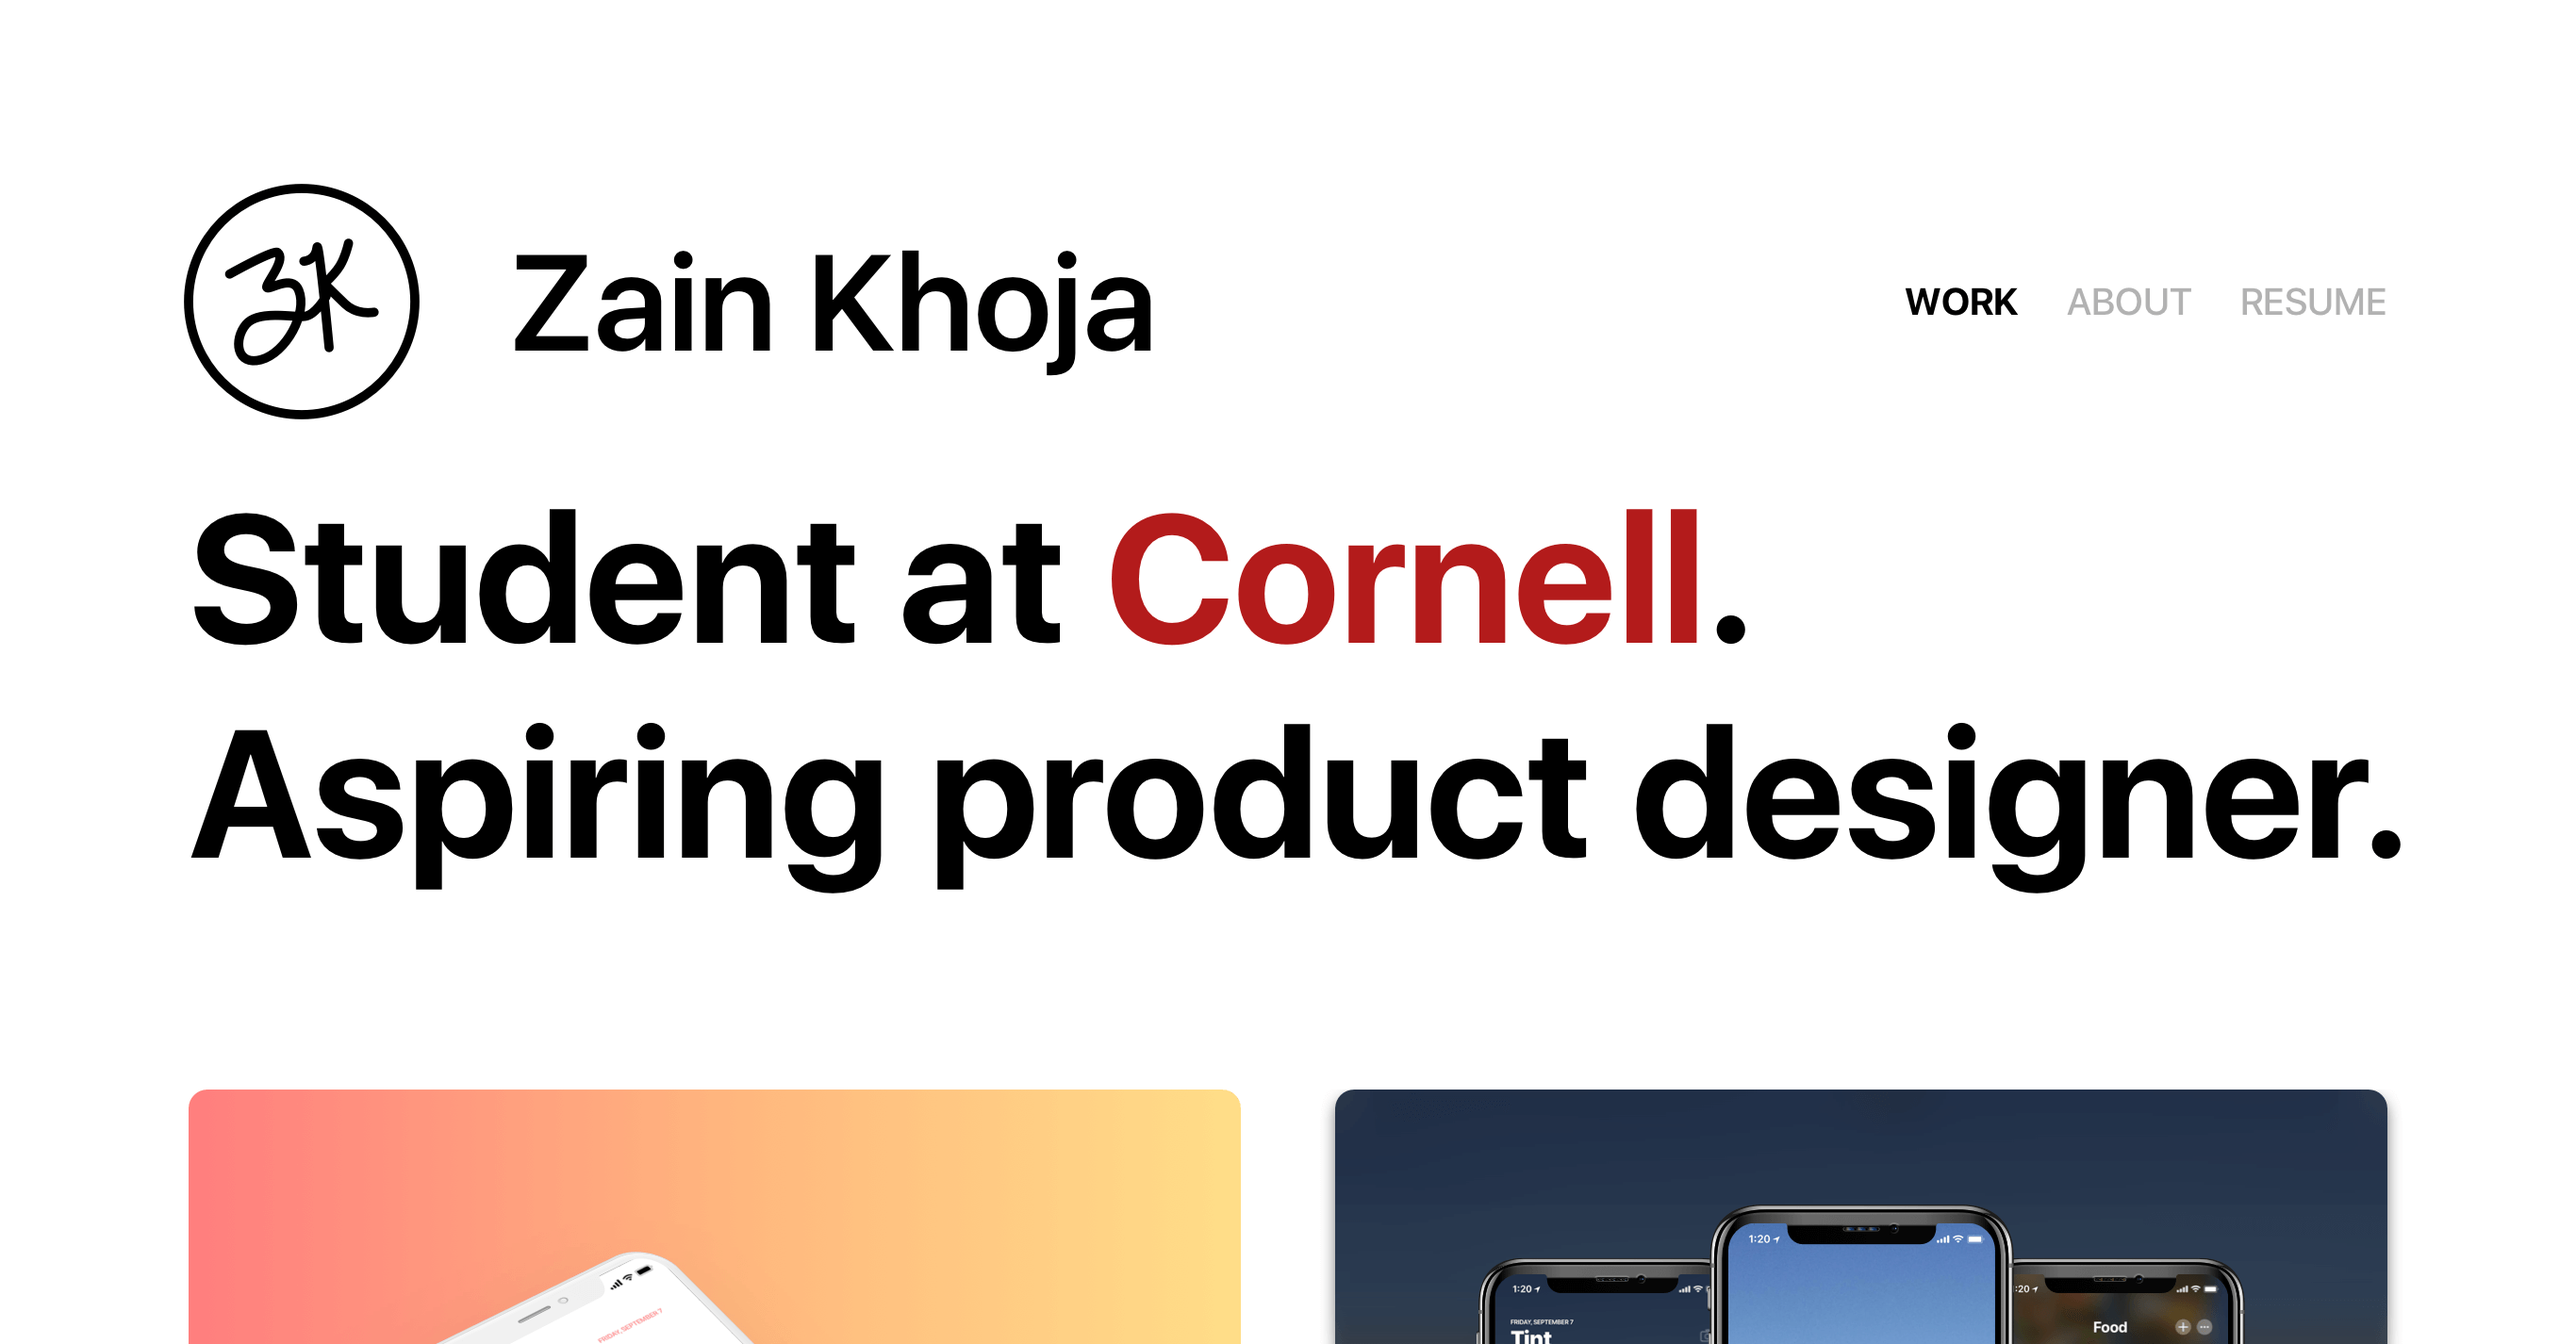
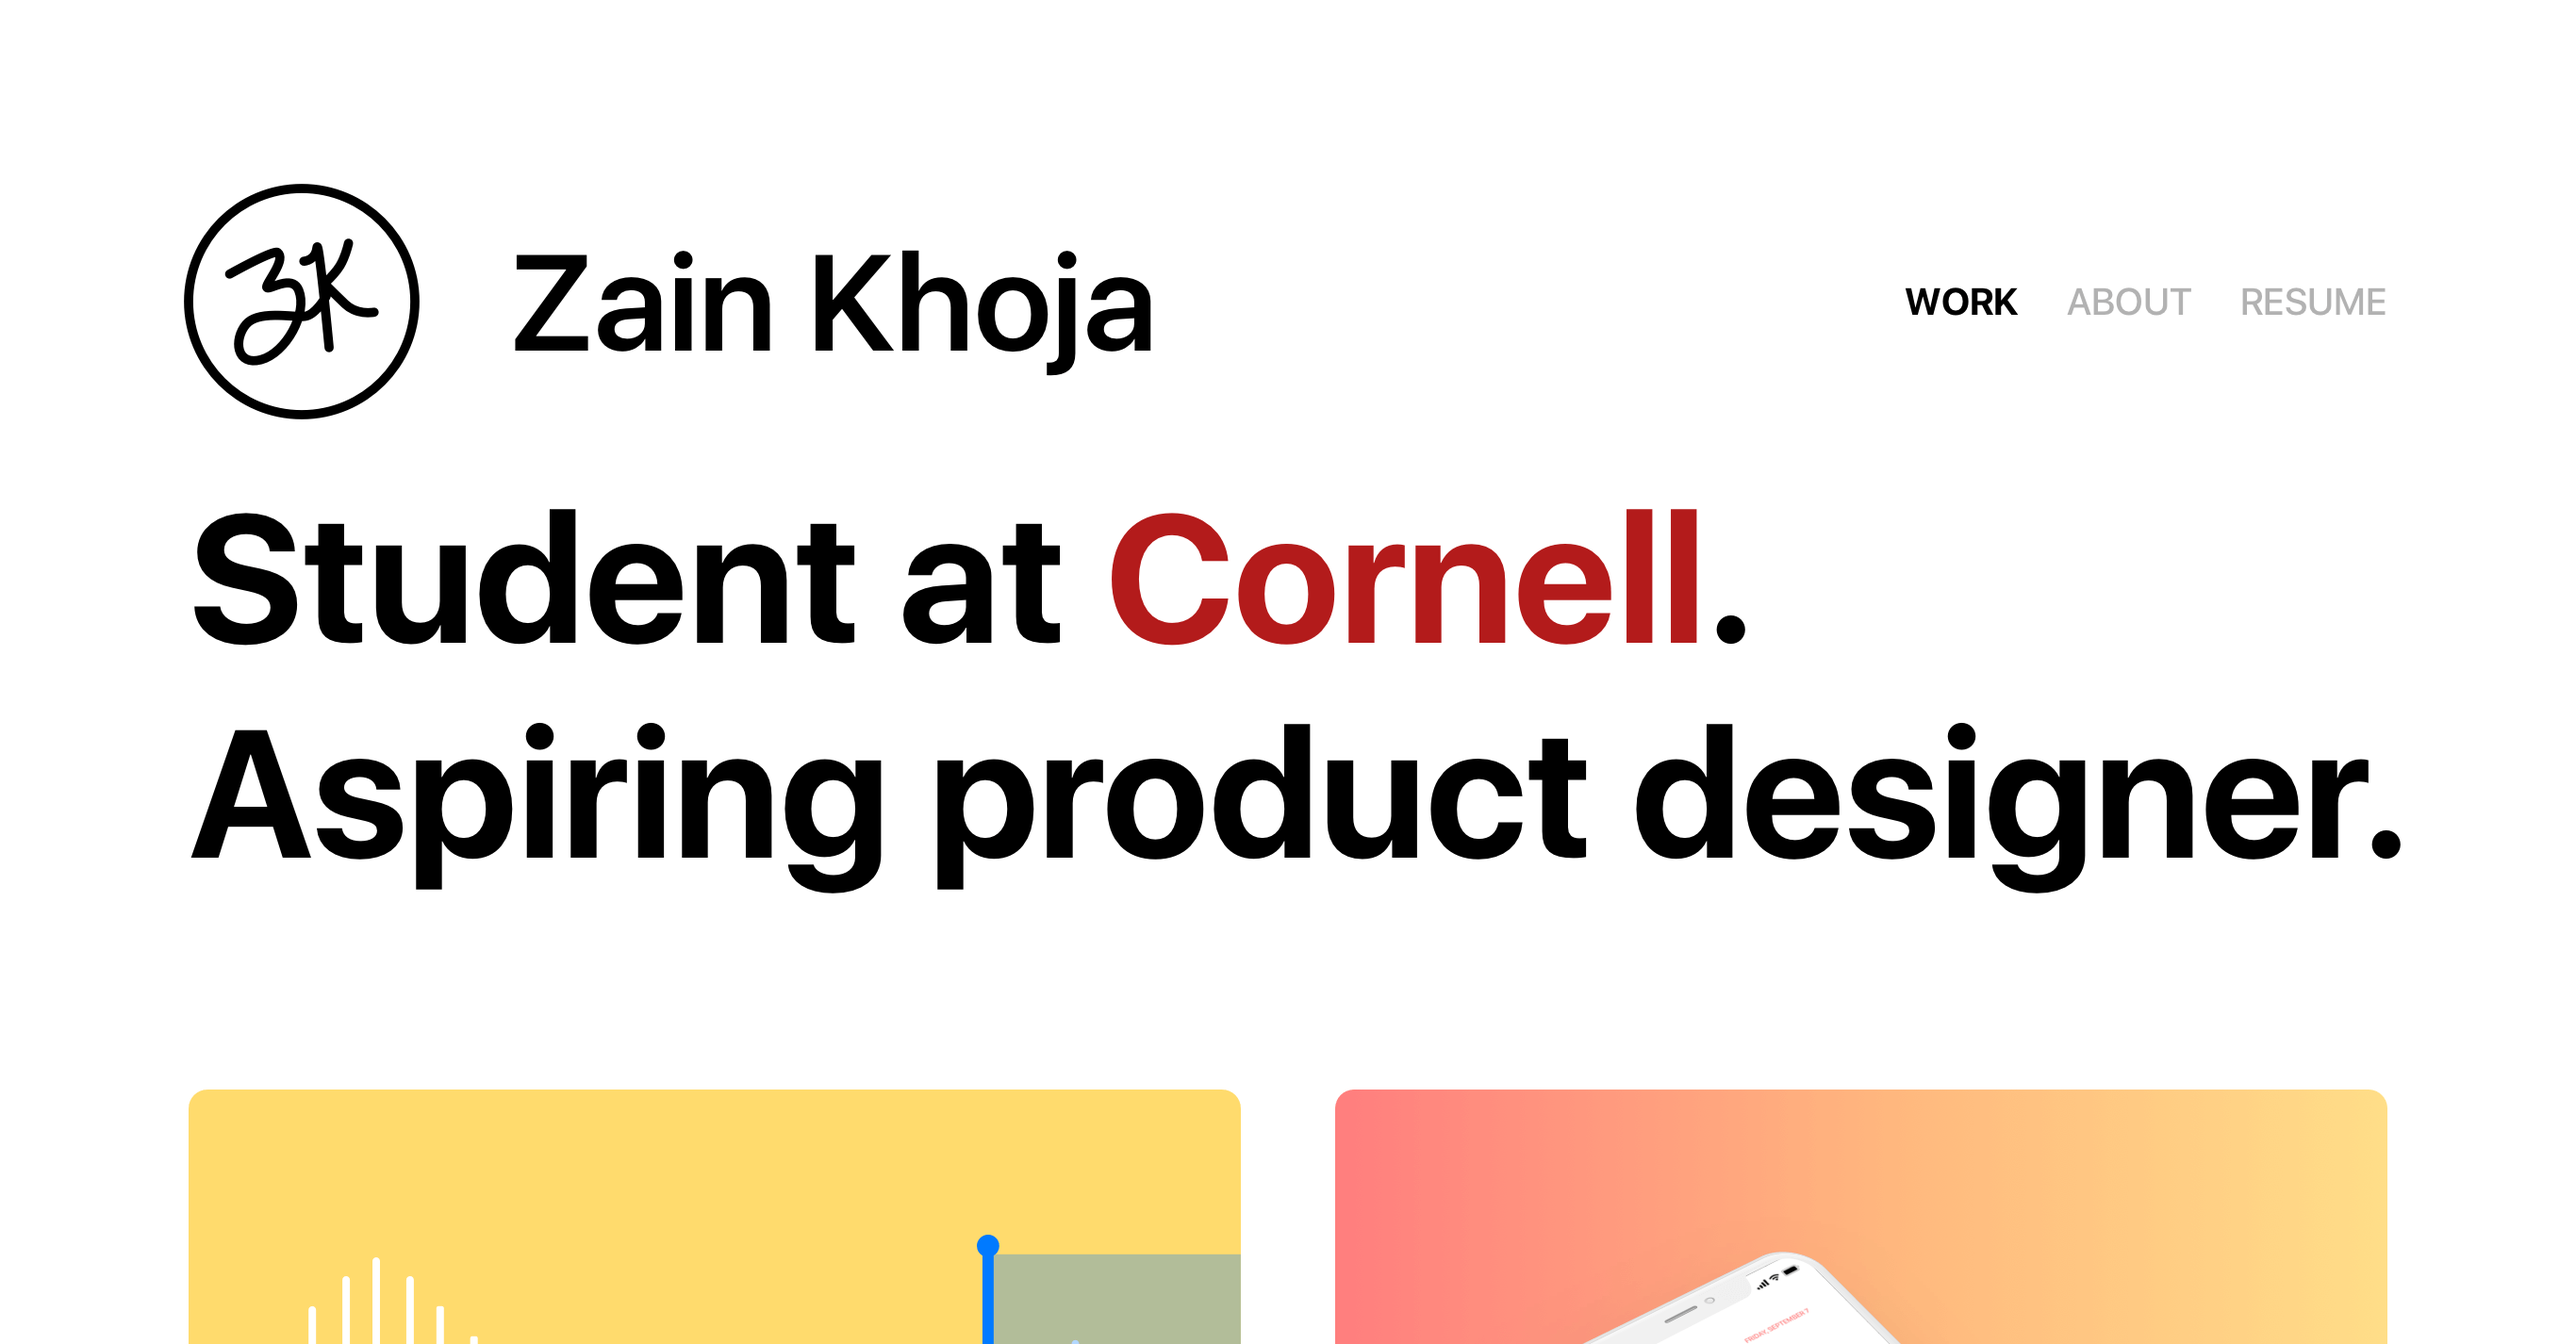
*NEW PROJECT* IDEO CoLab!
Updated website with my experience from the IDEO CoLab Makeathon Winter
2018

Changed region(s): [[0.3734, 0.8022, 0.9334, 1.0], [0.0622, 0.8022, 0.3422, 1.0]]

diff --git a/ideocolab.html b/ideocolab.html
@@ -1,4 +1,4 @@
-<!-- tint.html -->
+<!-- ideocolab.html -->
 
 <!DOCTYPE html>
 <html lang="en">
@@ -6,7 +6,7 @@
 <!-- HEAD -->
 <head id="top">
     <meta charset="UTF-8">
-    <title>Tint · Zain Khoja</title>
+    <title>IDEO CoLab · Zain Khoja</title>
 
     <!-- Responsive Web Design -->
     <meta name="viewport" content="width=device-width, initial-scale=1.0, maximum-scale=1, user-scalable=0">
@@ -91,9 +91,9 @@
     <div class="row">
         <div class="c1"></div>
         <div class="c10">
-            <h1 class="tinttitle title">
-                Tint.<br>
-                Photo app concept.
+            <h1 class="ideocolabtitle title">
+                IDEO CoLab.<br>
+                Makeathon Winter 2018.
             </h1>
         </div>
         <div class="c1"></div>
@@ -107,7 +107,7 @@
         <div class="c5">
             <p>
             <span style="font-family: SFUI Bold">Overview</span><br>
-            An application that automatically detects and classifies images on the go.
+            Ideating a way to create meaningful hospital visits through cohesive digital experiences over large distances.
             </p>
             
             <p>
@@ -118,11 +118,11 @@
             
             <p>
             <span style="font-family: SFUI Bold">Timeline</span><br>
-            September 2018
+            October 2018
             </p> 
         </div>
         <div class="c5">
-            <img src="work/tint/tintmockup.png">
+            <img src="work/ideocolab/ideocolabmockup2.png">
         </div>
         <div class="c1"></div>
     </div>
@@ -131,40 +131,58 @@
     <div class="row content">
         <div class="c1"></div>
         <div class="c10 divider">
-            <h1 class="tinttitle">Problem</h1>
+            <h1 class="ideocolabtitle">Background</h1>
             <p>
-                We see a lot of cool things everyday, but we don’t have the time to make a note to search or learn more about these things. What if an application could automatically organize and compile knowledge about these objects while we’re out and remind us when we get home?
-            </p><br>
-
-            <h1 class="tinttitle">User Flow</h1>
-            <p class="c4">
-                <span style="font-family: SFUI Bold">Camera</span><br>
-                Playing around with the concept of a general camera app, I recognized the strong familiarity that users had with current applications. In order to retain user behaviors, I created a simple camera view. When you’re on the go, you just want to take the picture and move on with your day. The view simply contains a single button for taking pictures and accessing a library of previously taken photos.
-            </p><br>
-            
-            <img src="work/tint/cameramockup.png" class="projectimg" style="padding-top: 1.5em">
-            
-            <p>
-                <span style="font-family: SFUI Bold">Edit</span><br>
-                The ability to modify images in this application is just a mode of entertainment. As apps like Snapchat and the "Story" concept grow, it’s important to recognize the intended audience of a younger user base. Users are used to being able to play with photos, so this aspect is vital for familiarity.
-                
-                <img src="work/tint/editmockup.png" class="projectimg">
-            </p><br>
-            
-            <p>
-                <span style="font-family: SFUI Bold">Catching Up</span><br>
-                The idea is for a user to be able to "catch up" on their day, so the photo library is focused on memory and reflects on the last photo taken by the user. Users can look at their photos chronologically by default, by category (which is suggestable in the Edit screen above or done automatically by machine learning APIs), and by keyword. 
-                
-                <img src="work/tint/librarymockup.png" class="projectimg">
-                
-                The background of the application will always be a blurred, tinted version of the last photo taken, providing the subtle "reflection" aspect mentioned earlier. The user can also return to the camera via the button in the top right.
-            </p><br>
-            
-            <h1 class="tinttitle">Further Exploration</h1>
-            <p class="c5">
-                I produced a handful of more high-fidelity mockups to showcase scrolling behavior and search results.
+                The IDEO CoLab is the company’s R&D branch, focusing on creating products and ideas that synthesize the world’s emerging technologies. In winter of 2018, this meant taking a closer look at the applications of circular economies, collaborative cities, dynamic workforces, and open financial systems. 
             </p>
-            <img src="work/tint/explorationmockup.png" class="c12" id="exploration">
+            
+            <p>
+               For the makeathon, us participants were split into groups of 4 to 5 to collaborate on a specific application of these technologies. My group consisted of an occupational therapist from Chicago, a graduate student from Emerson studying Civic Media, a computer science student from Columbia, and an all-rounder engineer who could work with anything from virtual reality to network communications. 
+            </p><br>
+            
+            <h1 class="ideocolabtitle">Problem</h1>
+            <p>
+                Our design brief was to create a cohesive design experience for users over long distances. This problem was open-ended, yet just specific enough for us to come up with a few different applications. From fixing online meetings to helping long-distance relationships, our strengths were evidently more concentrated in the area of healthcare. We chose to use our group’s experience to solve the problem of visiting hospital patients from across the world.
+            </p><br>
+            
+            <h1 class="ideocolabtitle">Ideation</h1>
+            <p class="c4">
+                Part of IDEO’s design process was a detailed, yet extensive method to create and filter through ideas without judgement or holds barred. As such, we started by throwing out as many ideas as possible, no matter how far out.<br><br>
+                
+                Among our weirdest ideas were video-chatting with a potted plant, a laundry shoot for familial gifts, and a AI hologram that would replicate the behaviors and speech patterns of a loved one.
+            </p>
+            
+            <img src="work/ideocolab/ideationmockup.png" class="projectimg"><br>
+            
+            <p>
+                But scoping out the ideas that accomplished that would truly accomplish the goal of creating a meaningful digital hospital visit was exhausting. How does one create meaning in virtual space? What about the feeling that a patient experiences when a loved one bring a gift or keepsake? It was almost a spiritual feeling that we strived to recreate. Even our crude illustrations struggled to explain the immaterial feeling we needed to replicate in a digital medium.
+                
+                <img src="work/ideocolab/drawingmockup.png" class="fullimg">
+            </p><br>
+            
+            <h1 class="ideocolabtitle">Solution</h1>
+            <p>
+                We approached the problem by focusing on what we could control – sensory details. We thought about the touch aspect in particular. What if one could send a hug along with a voicemail? We thought memory wire in a blanket or bed would be a possible method in order to execute this. However, we focused more on the interface used to send such a voicemail and the reception of that voicemail.
+                
+                <img src="work/ideocolab/solutionmockup.png" class="fullimg">
+            </p><br>
+            
+            <p>
+                Our resident virtual reality master used Unity to make a video example of how a virtual avatar could "hug" the user while the memory-wired bed or blanket could squeeze physically. We painted a user’s journey through this process of opening and receiving a message, recording messages that would be played back, and motions of the virtual avatar.
+                
+                <img src="work/ideocolab/appmockup.png" class="projectimg">
+            </p>
+            
+            <h1 class="ideocolabtitle">Further Explorations</h1>
+            <p>
+                While we didn’t get as much time as would have liked to do further research and iterations on the project, we did think about how we could better replicate the idea of meaningfulness in a digital environment. For example, we would have liked to implement a feature that would allow users to take pictures of objects that were meaningful to the patient and recreate those in a virtual environment.
+            </p>
+                
+            <p>
+                The time we spent in Cambridge was amazing and I personally learned a lot about IDEO’s design process and the many walks of life that bring people into this field. Thank you to IDEO, the CoLab team, and all the other great participants for making this event as memorable and exciting as it was!
+                
+                <img src="work/ideocolab/picturemockup.png" class="fullimg">
+            </p>
         </div>
         <div class="c1"></div>
     </div>

diff --git a/index.html b/index.html
@@ -104,53 +104,60 @@
     <div class="row">
         <div class="c1"></div>
         <div class="c10 work">
+            <!-- IDEO CoLab -->
+            <a href="ideocolab.html"><div class="project left ideocolab hvr-float">
+                <img src="work/ideocolab/ideocolabmockup.png">
+                <h2>IDEO CoLab</h2>
+                <p class="caption" style="color: #000000">More than just a voicemail for hospital patients.<p>
+            </div></a>
+            
             <!-- Respond -->
-            <a href="respond.html"><div class="project left respond hvr-float">
+            <a href="respond.html"><div class="project right respond hvr-float">
                 <img src="work/respond/respondmockup.png">
                 <h2>Respond</h2>
                 <p class="caption">Prioritizing situations for first responders.<p>
             </div></a>
             
             <!-- Tint -->
-            <a href="tint.html"><div class="project right tint hvr-float">
+            <a href="tint.html"><div class="project left tint hvr-float">
                 <img src="work/tint/tintmockup.png">
                 <h2>Tint</h2>
                 <p class="caption">Concept for automated photo categorization.</p>
             </div></a>
             
             <!-- NALP -->
-            <a href="nalp.html"><div class="project left nalp hvr-float">
+            <a href="nalp.html"><div class="project right nalp hvr-float">
                 <img src="work/nalp/nalpmockup.png">
                 <p class="caption">Designing for minorities in politics.</p>
             </div></a>
             
             <!-- EarBud -->
-            <a href="earbud.html"><div class="project right earbud hvr-float">
+            <a href="earbud.html"><div class="project left earbud hvr-float">
                 <img src="work/earbud/earbudmockup.png">
                 <h2>EarBud</h2>
                 <p class="caption">An auditory display for teaching code.</p>
             </div></a>
             
             <!-- Camp Mosaic -->
-            <a href="campmosaic.html"><div class="project left campmosaic hvr-float">
+            <a href="campmosaic.html"><div class="project right campmosaic hvr-float">
                 <img src="work/campmosaic/campmosaicmockup.png">
                 <p class="caption">Cohesive design system for youth camps.</p>
             </div></a>
             
             <!-- Chirp -->
-            <a href="chirp.html"><div class="project right chirp hvr-float">
+            <a href="chirp.html"><div class="project left chirp hvr-float">
                 <img src="work/chirp/chirpmockup.png">
                 <p class="caption">Using tweets to make symphonies.</p>
             </div></a>
             
             <!-- Designs -->
-            <a href="designs.html"><div class="project left designs hvr-float ">
+            <a href="designs.html"><div class="project right designs hvr-float ">
                 <img src="work/designs/designsmockup.png">
                 <p class="caption">Illustrations for client and personal use.</p>
             </div></a>
             
             <!-- Travel -->
-            <a href="travel.html"><div class="project right travel hvr-float ">
+            <a href="travel.html"><div class="project left travel hvr-float ">
                 <h2>TRAVEL</h2>
                 <p class="caption">Amateur photography from around the world.</p>
             </div></a>

diff --git a/css/style.css b/css/style.css
@@ -191,6 +191,18 @@ img {
     font-size: 1.25vw;
     margin: 0em;
 }
+.ideocolab {
+    background: #FFDB6D;
+    padding-left: 0;
+}
+.ideocolab h2 {
+    font-family: "SFUI Bold";
+    color: #000000;
+}
+.ideocolab img {
+    width: 100%;
+    margin-top: 2vw;
+}
 .respond {
     background-image: linear-gradient(to right, #FF7E7E, #FFB77E, #FFDE88);
 }
@@ -281,6 +293,9 @@ img {
     margin-bottom: 1.5em;
 }
 
+.ideocolabtitle {
+    color: #FFDB6D;
+}
 .respondtitle {
     width: max-content;
     
@@ -503,6 +518,9 @@ i {
         color: #FFFFFF;
         text-align: center;
     }
+    .ideocolab {
+        padding-left: 0;
+    }
     #exploration {
         margin-top: 1.5em;
     }
@@ -566,6 +584,9 @@ i {
     }
     .caption {
         font-size: 3vw;
+    }
+    .ideocolab {
+        padding-left: 0;
     }
     .nalp img {
         margin-top: 10vw;
